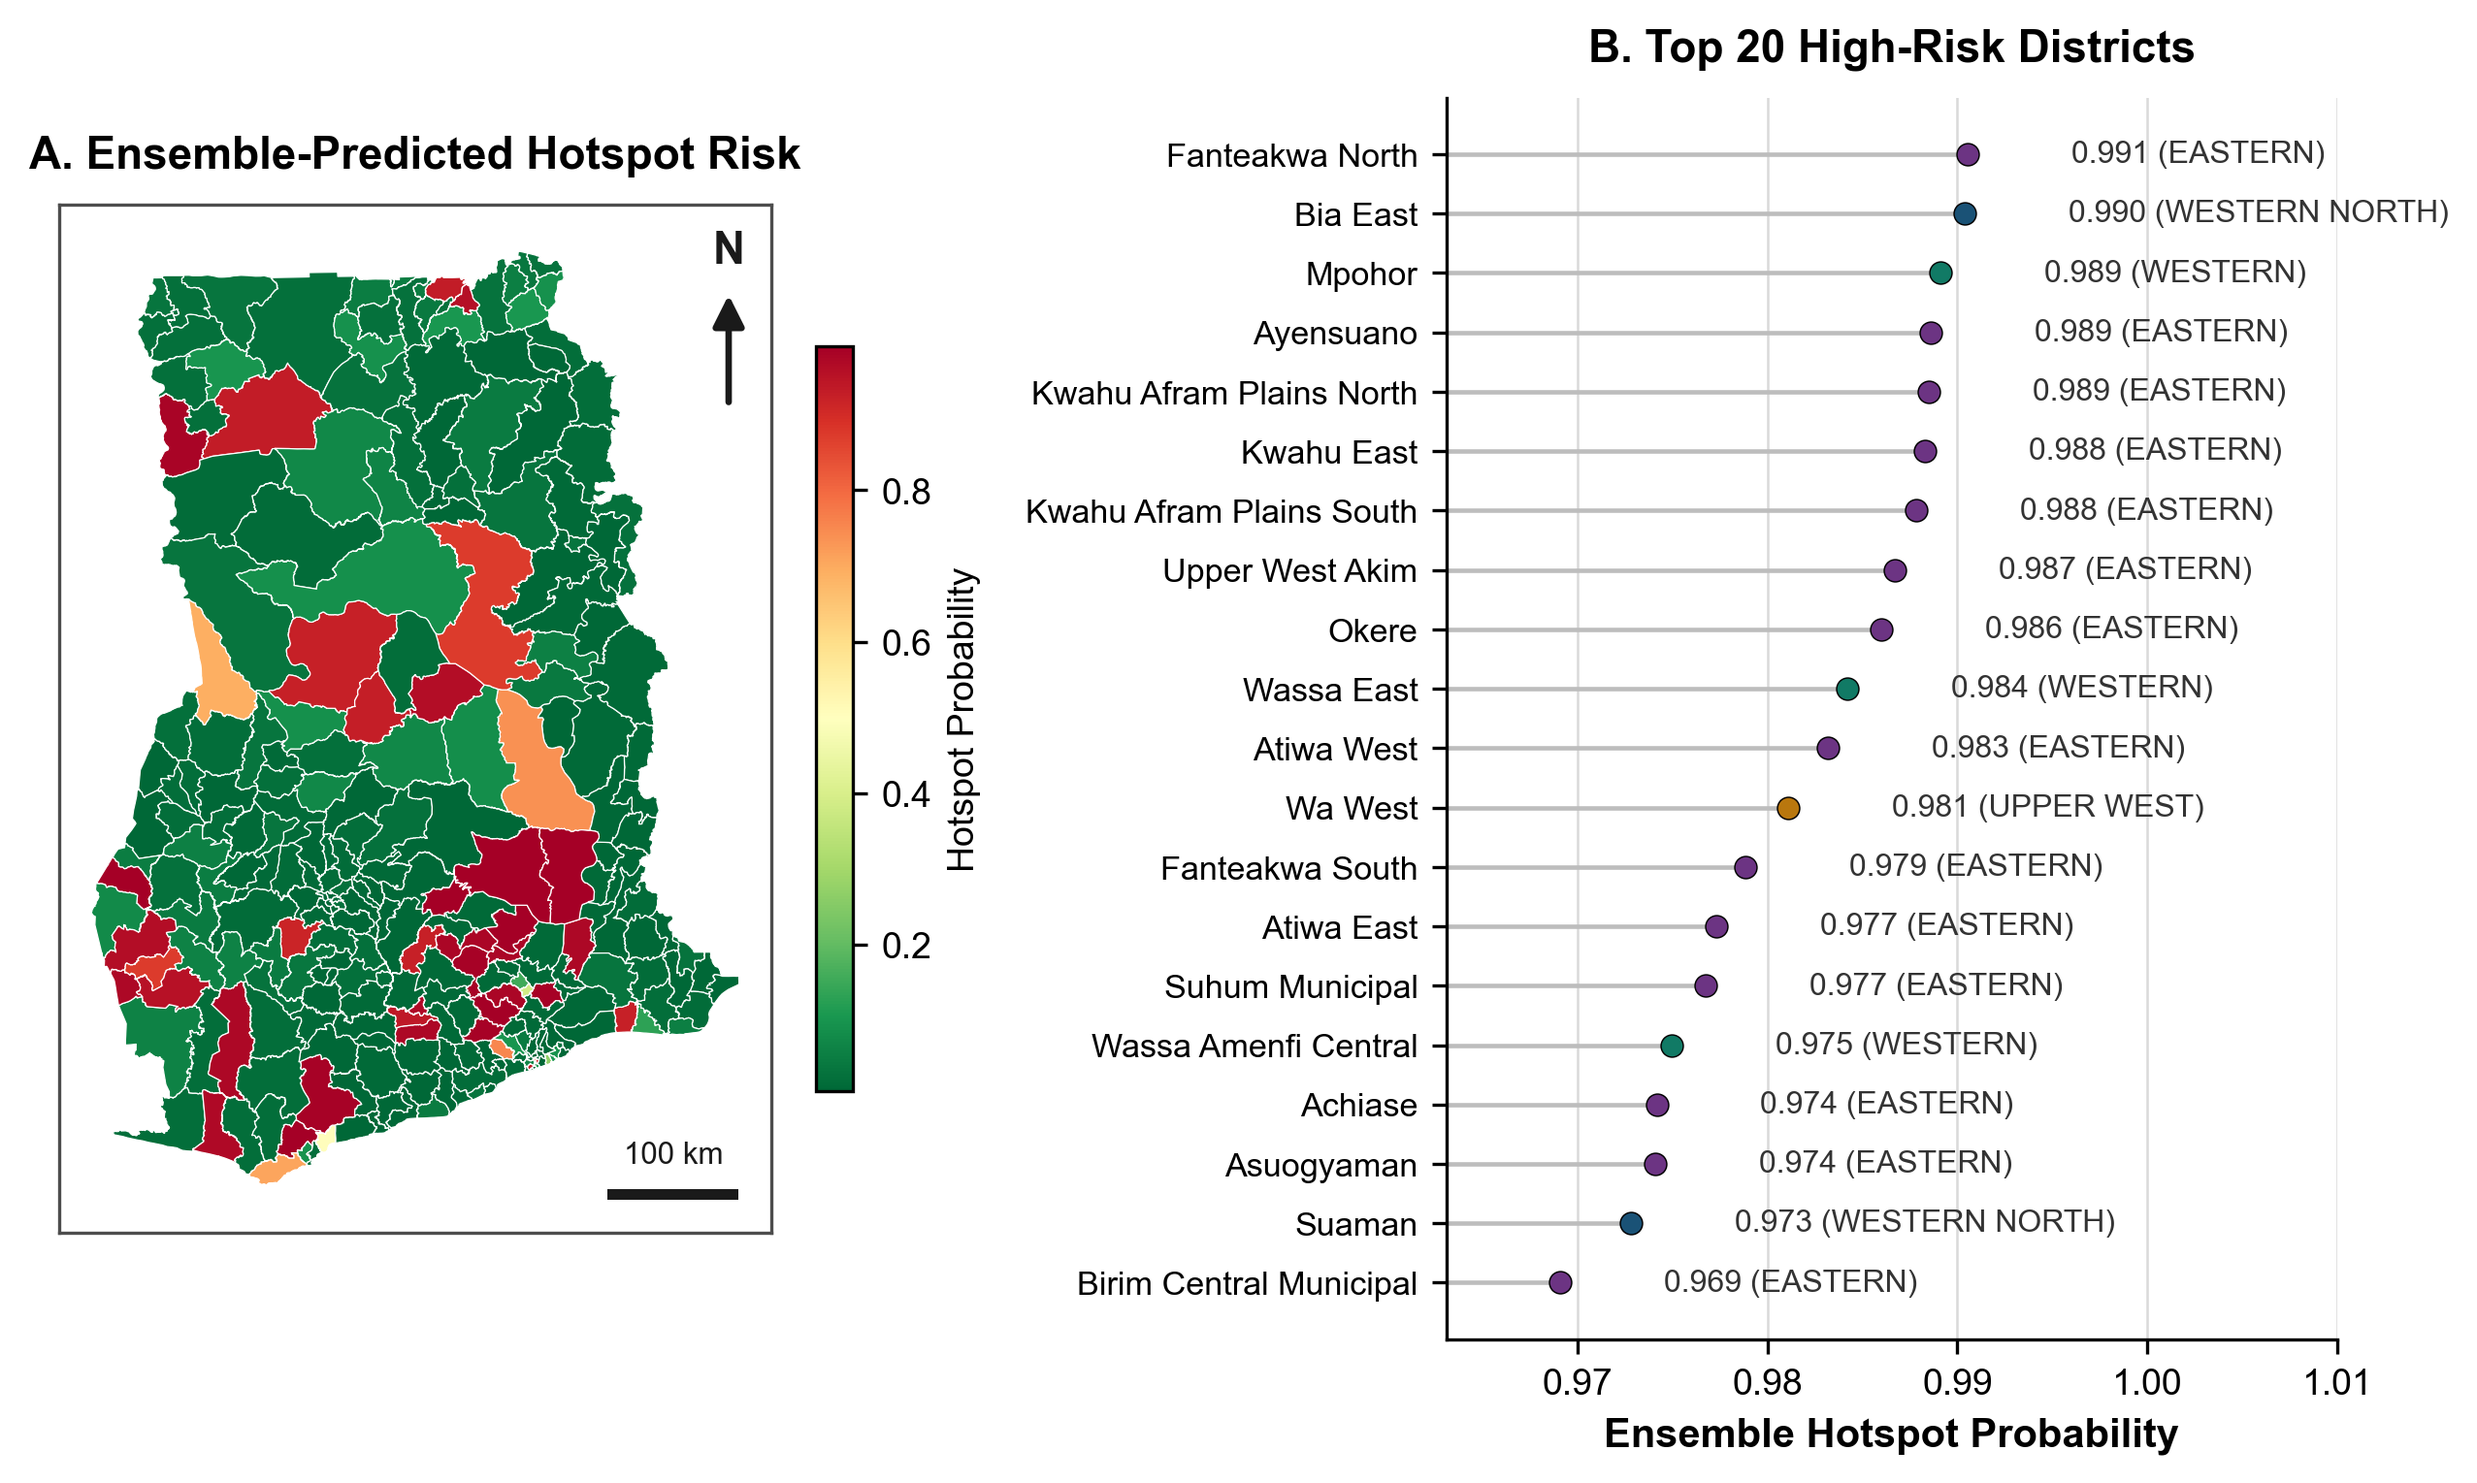
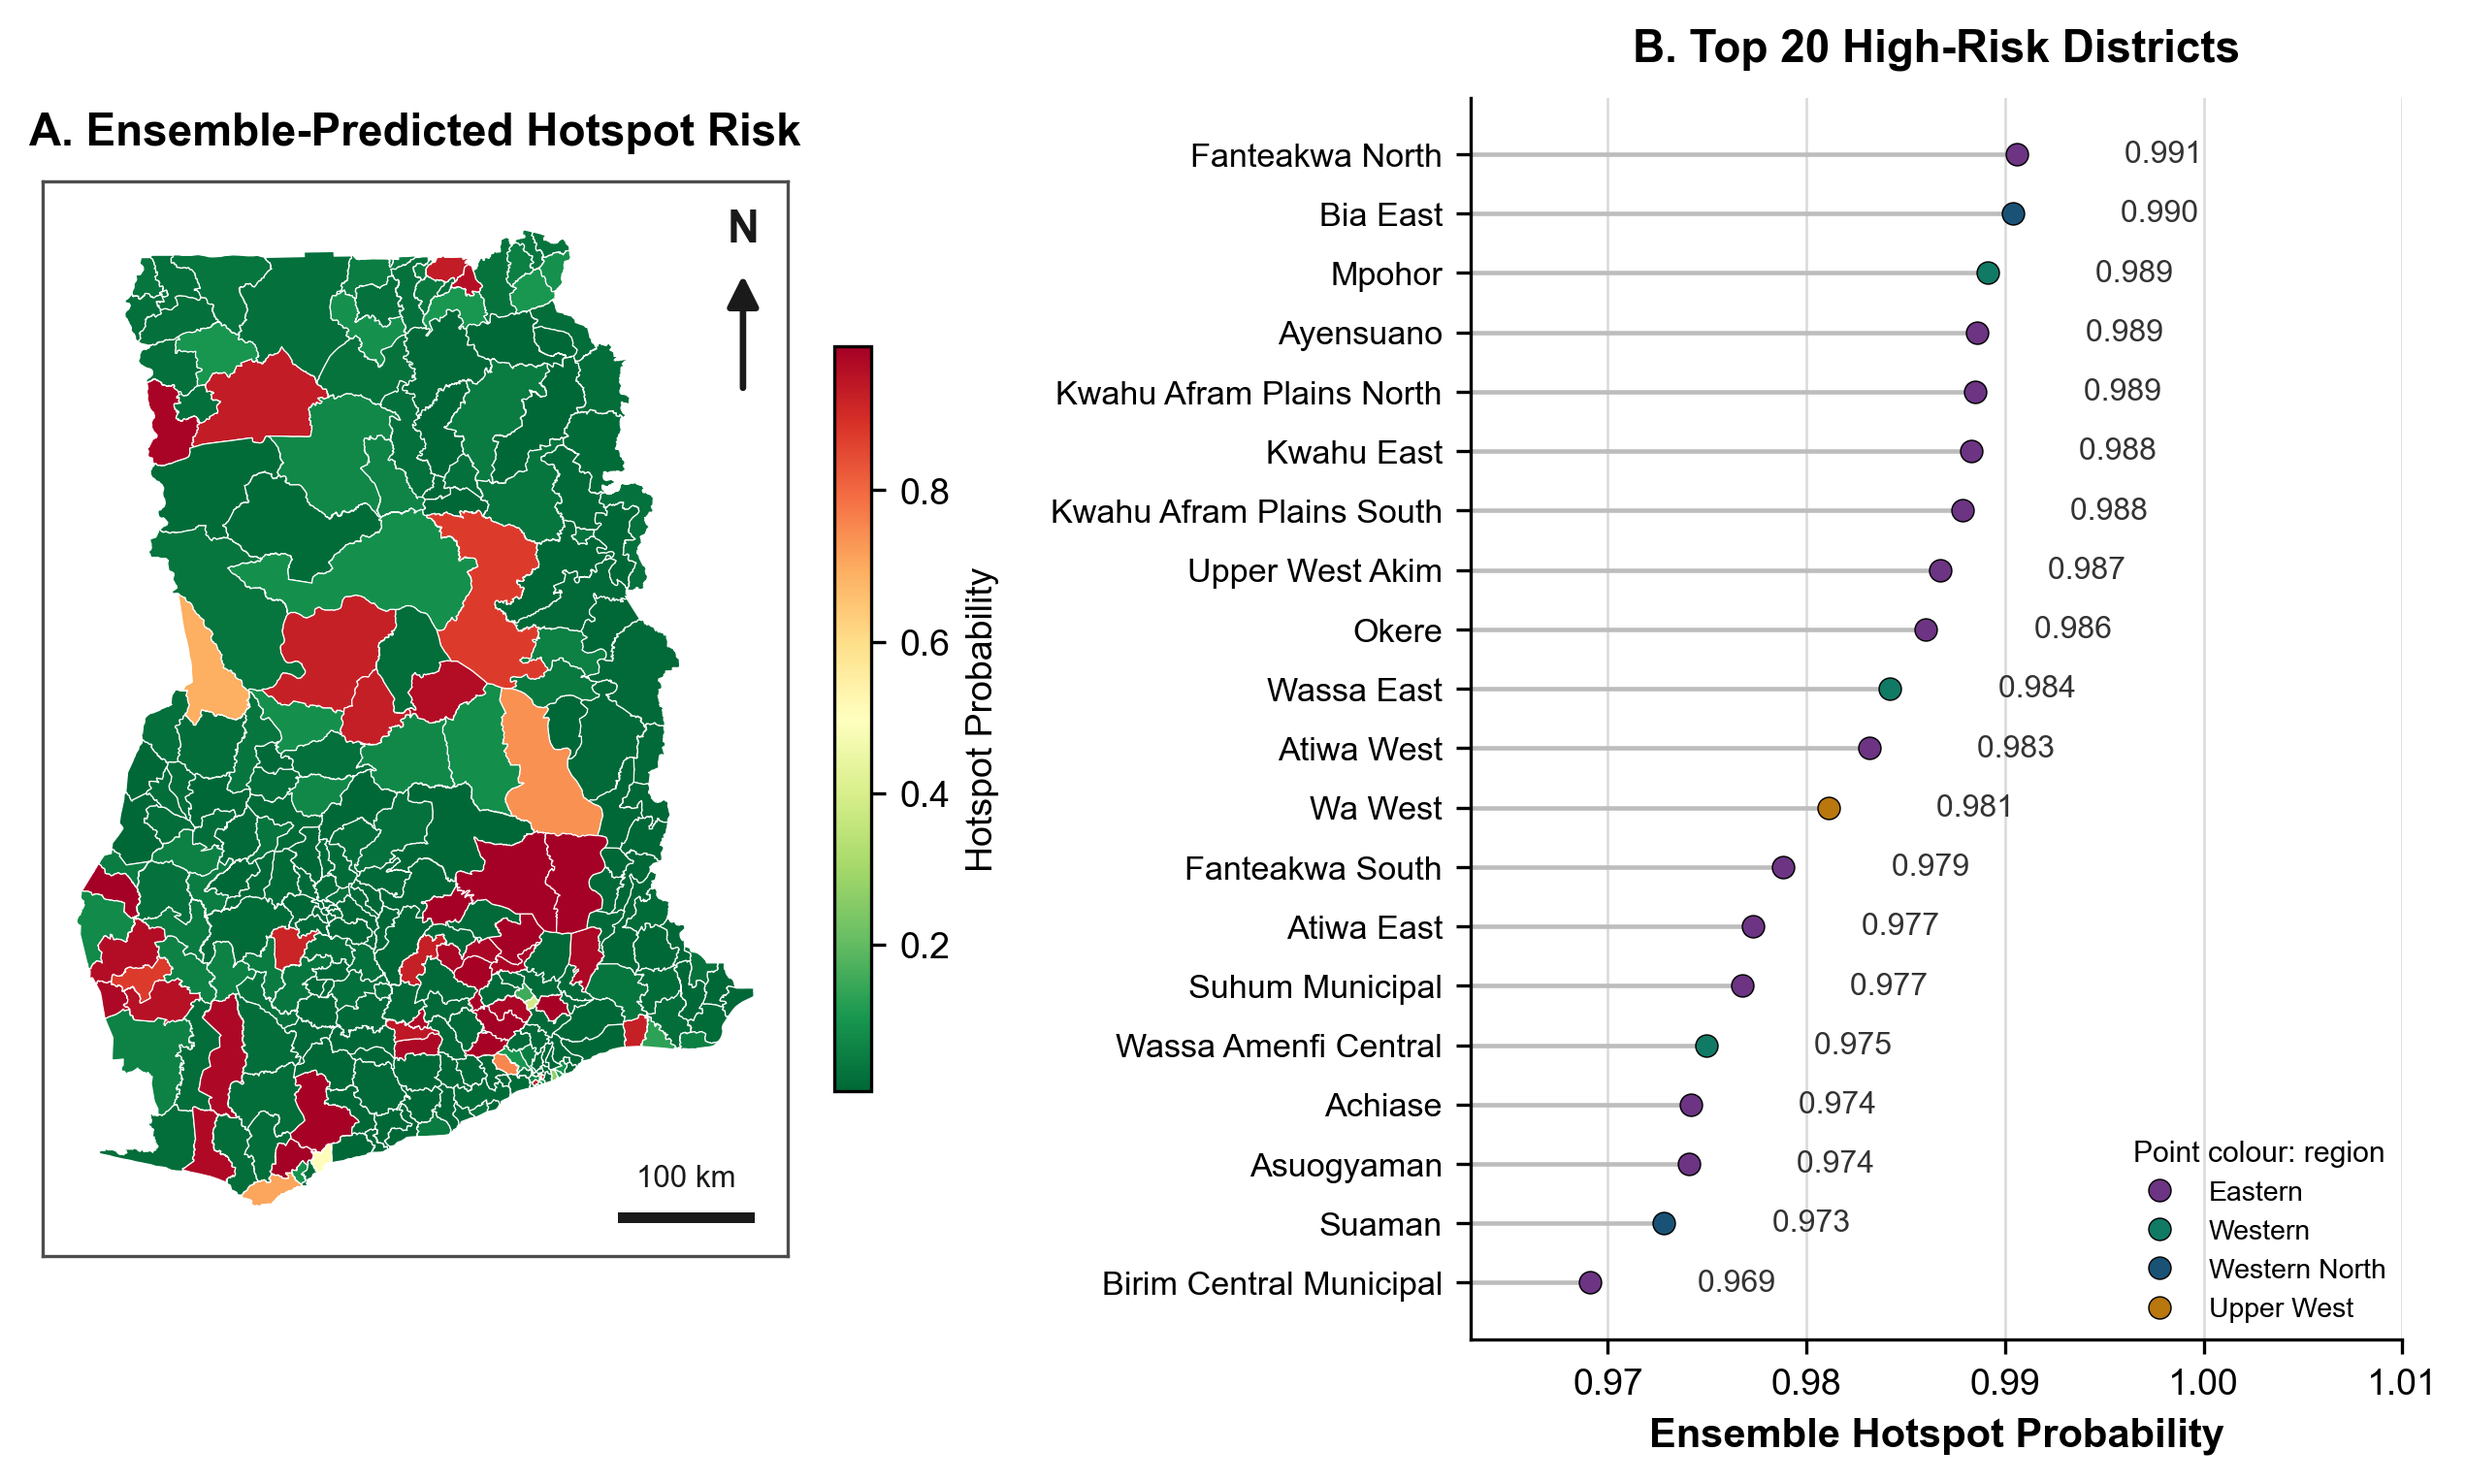
Add explicit figure legend details

diff --git a/scripts/build_submission_package.py b/scripts/build_submission_package.py
@@ -181,47 +181,47 @@ def add_results_tables(doc: Document) -> None:
 def add_figures(doc: Document) -> None:
     figures = [
         (
-            "Figure 1. District burden maps. Choropleths show HIV prevalence, TB incidence, TB-HIV co-infection and ART coverage across 261 Ghanaian districts; darker shading indicates higher values within each panel.",
+            "Figure 1. District burden maps. Panels show (A) HIV prevalence, (B) TB incidence, (C) TB-HIV co-infection and (D) ART coverage across 261 Ghanaian districts. Each subfigure has its own labelled colourbar; darker shading indicates higher values within that panel.",
             "Figure_1_disease_burden.png",
             "Source: Author analysis of Ghana Statistical Service district geometry, WHO/GHO indicators, DHS-derived inputs and outputs/data/ghana_261_final_results.geojson.",
         ),
         (
-            "Figure 2. Global spatial autocorrelation. Ranked Moran's I estimates for eleven district-level indicators using KNN-5 spatial weights and 999 permutations; labels report Moran's I and permutation p-values.",
+            "Figure 2. Global spatial autocorrelation. Ranked Moran's I estimates for eleven district-level indicators using KNN-5 spatial weights and 999 permutations; each marker label reports Moran's I and the permutation p-value.",
             "Figure_3_morans_I.png",
             "Source: Author analysis of outputs/tables/global_morans_I.csv.",
         ),
         (
-            "Figure 3. Local spatial clusters. LISA, bivariate LISA (HIV prevalence x TB incidence), Getis-Ord Gi* hotspots and GWR local R^2 are mapped across 261 districts; cluster legends report district counts where applicable.",
+            "Figure 3. Local spatial clusters. Panels show (A) univariate LISA for TB-HIV co-infection, (B) bivariate LISA for HIV prevalence x TB incidence, (C) Getis-Ord Gi* hotspots and (D) GWR local R^2. Panels A-C use class legends with district counts; panel D uses a labelled colourbar.",
             "Figure_2_spatial_clusters.png",
             "Source: Author analysis of outputs/data/ghana_261_final_results.geojson and outputs/tables/bivariate_morans_I.csv.",
         ),
         (
-            "Figure 4. Spatially varying GWR coefficients. Local GWR coefficient surfaces are shown for the leading predictors across 261 districts; colour scales are panel-specific and indicate lower-to-higher local coefficient values.",
+            "Figure 4. Spatially varying GWR coefficients. Panels show local coefficient surfaces for (A) HIV prevalence, (B) poverty intensity, (C) uninsurance and (D) doctors per 10,000 population. Each subfigure uses a labelled local-coefficient colourbar.",
             "Figure_8_gwr_coefficients.png",
             "Source: Author analysis of outputs/tables/gwr_summary.csv and outputs/data/ghana_261_final_results.geojson.",
         ),
         (
-            "Figure 5. Random versus spatial validation. Mean AUC-ROC is shown for random 10-fold cross-validation and leave-one-region-out spatial cross-validation; orange whiskers show spatial-CV +/- SD.",
+            "Figure 5. Random versus spatial validation. Blue markers show random 10-fold cross-validation mean AUC-ROC; orange markers show leave-one-region-out spatial cross-validation mean AUC-ROC, with orange whiskers showing spatial-CV +/- SD.",
             "Figure_4_ml_performance.png",
             "Source: Author analysis of outputs/tables/ml_10fold_cv_results.csv and outputs/tables/ml_spatial_cv_results.csv.",
         ),
         (
-            "Figure 6. SHAP feature importance. Mean absolute SHAP values are shown for the LightGBM hotspot model; larger values indicate greater average contribution to predicted hotspot status.",
+            "Figure 6. SHAP feature importance. The lollipop chart ranks LightGBM predictors by mean absolute SHAP value; larger values indicate greater average contribution to predicted hotspot status.",
             "Figure_5_shap_importance.png",
             "Source: Author analysis of outputs/tables/shap_feature_importance.csv and saved LightGBM SHAP arrays.",
         ),
         (
-            "Figure 6b. SHAP value distribution. The beeswarm plot shows predictor-specific SHAP distributions for the LightGBM hotspot model, with points representing held-out district observations.",
+            "Figure 6b. SHAP value distribution. The beeswarm plot shows predictor-specific SHAP distributions for the LightGBM hotspot model; each point is a held-out district observation and the colour legend marks low-to-high feature values.",
             "Figure_5b_shap_beeswarm.png",
             "Source: Author analysis of saved LightGBM SHAP arrays in outputs/models/.",
         ),
         (
-            "Figure 7. Stacked-ensemble risk map. District-level ensemble hotspot probability is mapped alongside the twenty highest-risk districts; higher scores indicate greater predicted probability of High-High co-infection cluster membership.",
+            "Figure 7. Stacked-ensemble risk map. Panel A maps district-level ensemble hotspot probability using a labelled probability colourbar. Panel B ranks the twenty highest-risk districts; the point-colour legend identifies region and printed labels report each probability.",
             "Figure_6_ml_risk_map.png",
             "Source: Author analysis of outputs/models/predictions.json and outputs/data/ghana_261_final_results.geojson.",
         ),
         (
-            "Figure 8. Selected determinant correlations. Pearson correlation coefficients are shown for twelve HIV, TB, socioeconomic and health-system indicators across 261 districts; every cell reports the corresponding r value.",
+            "Figure 8. Selected determinant correlations. The heat map shows Pearson correlation coefficients for twelve HIV, TB, socioeconomic and health-system indicators across 261 districts; the colourbar gives Pearson r and every cell reports the corresponding r value.",
             "Figure_7_correlation.png",
             "Source: Author analysis of outputs/data/ghana_261_final_results.geojson.",
         ),

diff --git a/analysis/generate_figures.py b/analysis/generate_figures.py
@@ -9,6 +9,7 @@ import geopandas as gpd
 import matplotlib.pyplot as plt
 import matplotlib.patches as mpatches
 from matplotlib.colors import ListedColormap, LinearSegmentedColormap
+from matplotlib.lines import Line2D
 from matplotlib_scalebar.scalebar import ScaleBar
 import seaborn as sns
 from pathlib import Path
@@ -408,15 +409,24 @@ for i, (_, row) in enumerate(top20.iterrows()):
 for i, (_, row) in enumerate(top20.iterrows()):
  ax.text(row['Ensemble_Risk_Score'] + 0.005,
  i,
- f" {row['Ensemble_Risk_Score']:.3f} ({row['REGION']})",
+ f" {row['Ensemble_Risk_Score']:.3f}",
  va='center', fontsize=7.7, color='#333333')
 ax.set_yticks(y_pos)
 ax.set_yticklabels(top20['District'], fontsize=8.2)
 ax.invert_yaxis()
 ax.set_xlabel('Ensemble Hotspot Probability', fontsize=10, fontweight='semibold')
 ax.set_title('B. Top 20 High-Risk Districts', **TITLE_KW)
-ax.set_xlim(x_min, min(1.01, top20['Ensemble_Risk_Score'].max() + 0.045))
+ax.set_xlim(x_min, min(1.01, top20['Ensemble_Risk_Score'].max() + 0.026))
 ax.grid(axis='x', color='#d9d9d9', linewidth=0.6)
+legend_handles = [
+ Line2D([0], [0], marker='o', color='none', label=region.title(),
+ markerfacecolor=color, markeredgecolor='black', markeredgewidth=0.35, markersize=5.5)
+ for region, color in region_colors.items()
+ if region in set(top20['REGION'].astype(str).str.upper())
+]
+if legend_handles:
+ ax.legend(handles=legend_handles, title='Point colour: region', loc='lower right',
+ frameon=False, fontsize=6.8, title_fontsize=7.2, borderaxespad=0.2)
 
 plt.tight_layout(rect=[0, 0.04, 1, 1])
 save_transparent_figure(fig, 'Figure_6_ml_risk_map.png')
